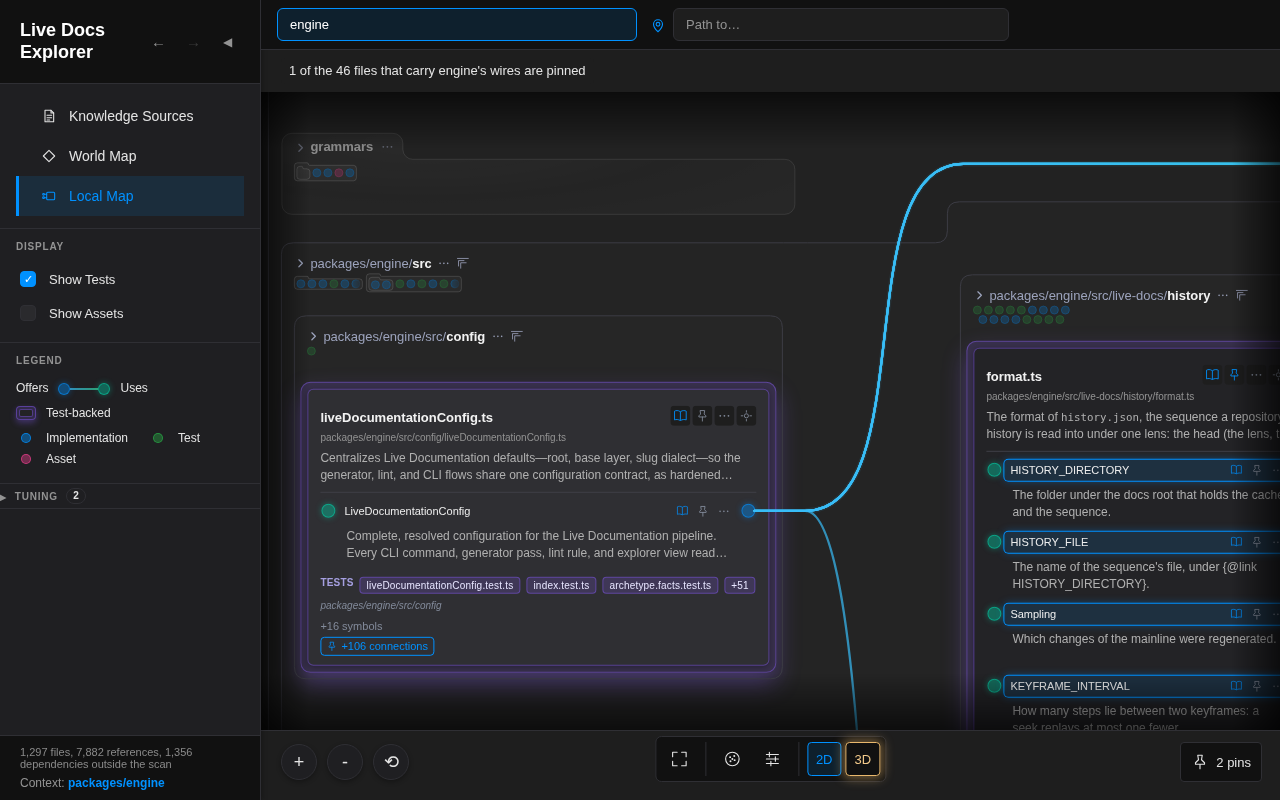
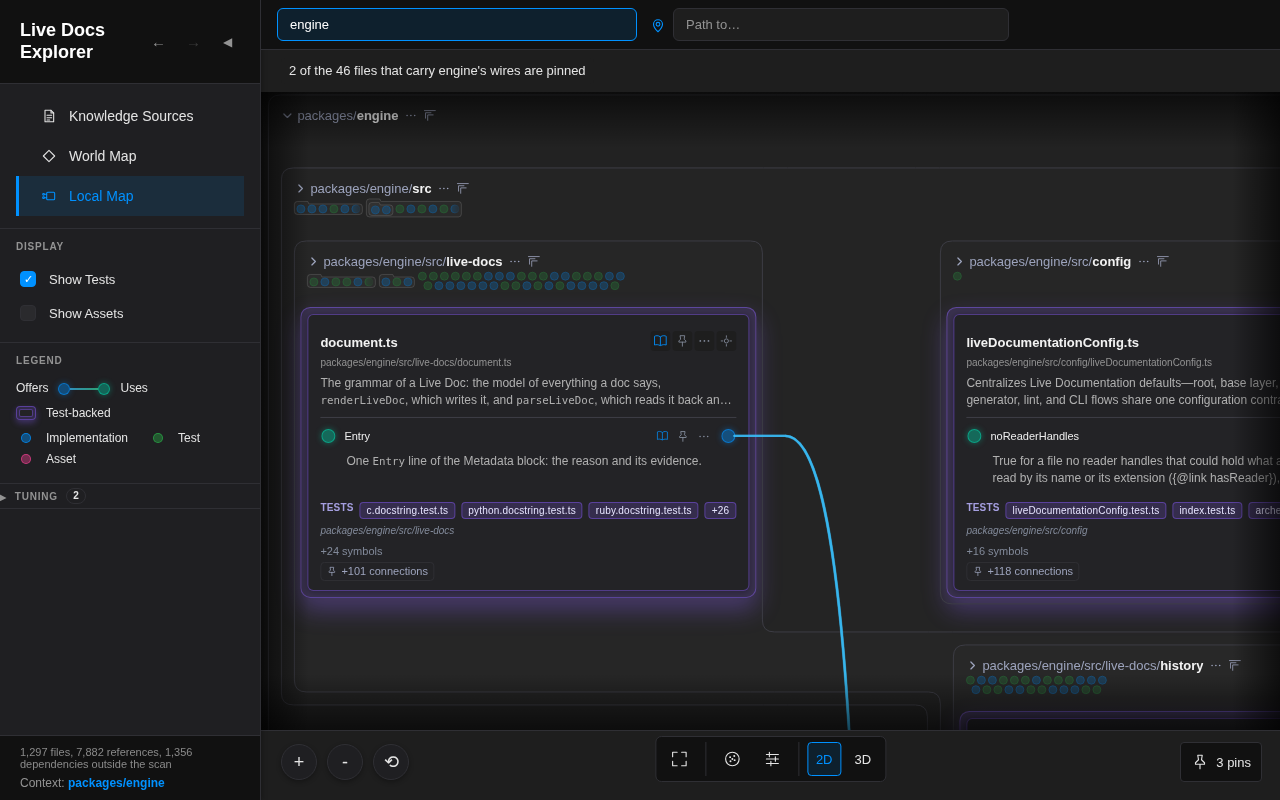
Set the Way Down lever truly in its browser cases, and picture this repository's board after two mends
The browser cases wrote the lever only where no saved tuning stood, and the suite seeds one, so their first run had the lever at its default: the five cases that try the trial failed and the two that hold the default passed. The lever is now written at every load, and the chain's cold check opens the link in a browser whose own tuning says nothing of it. All seven pass.

The pictures of this repository's engine and explorer are replaced by ones taken after two mends that touch only a thing with more files than a picture holds: a much-used first file is passed over for the next that fits, and the line that counts what is not pinned stands before the map is drawn, so that it no longer pushes the opened folder's label under itself. The evidence page says what each picture shows, and that an address opened cold shows the same pins framed as any shared link is.

diff --git a/tests/e2e/way-down.spec.ts b/tests/e2e/way-down.spec.ts
@@ -21,7 +21,9 @@ const ESTATE = "/samples/estate/index.html?view=world";
 
 async function visit(browser: Browser, wayDown: WayDown, site = ESTATE): Promise<{ page: Page; close: () => Promise<void> }> {
   const context = await browser.newContext({ viewport: { width: 1280, height: 800 }, deviceScaleFactor: 1 });
-  await context.addInitScript(({ key, value }) => { if (!localStorage.getItem(key)) localStorage.setItem(key, value); }, {
+  // Written at every load, over the suite's own seed, which says nothing of Way Down: written only where no value
+  // stood, the lever stayed at its default and every case of the trial failed (the first run of this file).
+  await context.addInitScript(({ key, value }) => localStorage.setItem(key, value), {
     key: PERSISTED_UI_KEY, value: JSON.stringify({ version: PERSISTED_UI_VERSION, tuning: { localMap: { searchStarts: 0, wayDown } } })
   });
   const page = await context.newPage();
@@ -176,12 +178,14 @@ test.describe("The way down from the World Map", () => {
       const snapshot = currentSnapshot(page);
       expect([...snapshot.openDirectories]).toEqual(["Database/SqlServer"]);
       expect(snapshot.destination).toEqual({ kind: "directory", directory: "Portal" });
-      // Cold, it draws the same path and says the same of it.
-      const cold = await page.context().newPage();
+      // Cold, in a browser whose own tuning says nothing of Way Down, the link draws the same path and says the same of
+      // it: the lever rides among the link's layout settings.
+      const elsewhere = await browser.newContext({ viewport: { width: 1280, height: 800 }, deviceScaleFactor: 1 });
+      const cold = await elsewhere.newPage();
       await cold.goto(page.url());
       await expect(cold.locator("#pathfind-status")).toHaveText(await status.textContent() ?? "");
       expect(await cold.locator("#pathfind-path .pathfind-path-hop").evaluateAll(buttons => buttons.map(button => button.getAttribute("title")!))).toEqual(hops);
-      await cold.close();
+      await elsewhere.close();
       // Back returns to the board with the thing the question started from still pinned.
       await page.goBack();
       await expect(page.locator("#view-world")).toHaveClass(/active/);

diff --git a/AI-Agent-Workspace/AgentSessionHistory/2026/11/2026-11-22/Screenshots/way-down/README.md b/AI-Agent-Workspace/AgentSessionHistory/2026/11/2026-11-22/Screenshots/way-down/README.md
@@ -13,7 +13,7 @@
 
 ## The trial
 
-**Historical evidence, 2026-11-22.** Taken by the trial's builder between 01:55 and 02:15 UTC on its branch's built site, 1,280 by 800, headless Chromium through the browser lane, each state in a fresh page with the continuing search off and Tuning → 2D Layout → **Way Down** set as named: *Folder Alone*, the default, or *Carries The Question*. The trial is described in [the Explorer design](../../../../../../../.mdmd/layer-3/live-documentation-explorer.mdmd.md#independent-exploration), "The way down from the World Map, a trial". An arrival was taken 150 ms after the press, while the views cross-fade and the camera eases, and again at rest. The builder looked at every picture; the eye that decides is the owner's.
+**Historical evidence, 2026-11-22.** Taken by the trial's builder between 01:55 and 02:26 UTC on its branch's built site (the estate's pictures by 02:13, before two last changes that touch only a thing with more files than a picture holds; this repository's after them), 1,280 by 800, headless Chromium through the browser lane, each state in a fresh page with the continuing search off and Tuning → 2D Layout → **Way Down** set as named: *Folder Alone*, the default, or *Carries The Question*. The trial is described in [the Explorer design](../../../../../../../.mdmd/layer-3/live-documentation-explorer.mdmd.md#independent-exploration), "The way down from the World Map, a trial". An arrival was taken 150 ms after the press, while the views cross-fade and the camera eases, and again at rest. The builder looked at every picture; the eye that decides is the owner's.
 
 ### A thing opens with its doors
 
@@ -25,9 +25,9 @@
 | Carries: [hub with calls and what it stands on](trial-open-hub--carries-calls-and-stands--rest.png) | The alternative not taken: every wire's files pinned, calls first, so `PaymentHub.cs` and `Hub.csproj` too. | Seven files of the shared contracts take the left half of the picture and the two files a payment passes through are a small part of it. The request is harder to find. So a thing's doors are its calls, and what it stands on is brought only for a thing no call touches. |
 | Carries: [portal, arriving](trial-open-portal--carries--arrival.png), [at rest](trial-open-portal--carries--rest.png) | Portal open with `Services/GatewayClient.cs` pinned; beneath the folder, the gateway's `PaymentsController.cs` with the two routes it serves. | The hop from portal to gateway is one glance: two lines from `POST api/paym…` and `GET api/payme…` into the client. Whole in view, names read. The folder labels are cut from their left, "…tal/Services", "…ay/Controllers", which is the Local Map's own cut and reads poorly here, where the folder's first letters are what tells the two things apart. |
 | Carries: [payments, arriving](trial-open-payments--carries--arrival.png), [at rest](trial-open-payments--carries--rest.png) | PaymentService open with its three door files pinned: `App.config`, which serves the hub, and `Data/Payment.cs` and `Data/PaymentsContext.cs`, which call the two database objects. | This is where the estate's picture breaks. The thing itself is whole, but its neighbours are cut at three edges: the hub's `App.config` under the bar at the top, `dbo.Payment.sql` and the contracts at the left edge, the foot of the folder at the bottom. Three open cards with their rows are taller than the frame holds at the scale where names read, so the camera took the thing alone, as Step's With Its Lines does. The edges' shadows say more lies there; the request's next hop is half a name at the left edge. |
-| Carries, on this repository: [engine](trial-repo-open-engine--carries--rest.png), [after Fit](trial-repo-open-engine--carries--fit.png); [explorer](trial-repo-open-explorer--carries--rest.png) | A thing with many door files. Forty-six files of `packages/engine` are stood on by other things; eighty-four of `packages/explorer` carry its wires. The line above the map says how many are pinned. | Where the idea breaks. No call touches these things, so their doors are what others stand on, and those are the much-used files. The line above the map is plain and read at once: "1 of the 46 files that carry engine's wires are pinned". But a thing this size cannot be framed with its lines. Engine arrives at reading size among `grammars`, `src/config` and the pinned `history/format.ts`, which is cut at the right and the bottom, and its own label, "packages/engine", is not in view at all; after Fit it is forty-three cards too small to read. Explorer arrives at its label, with the pinned card cut at the bottom edge. Both pictures predate two mends; see below. |
+| Carries, on this repository: [engine](trial-repo-open-engine--carries--rest.png), [after Fit](trial-repo-open-engine--carries--fit.png); [explorer](trial-repo-open-explorer--carries--rest.png) | A thing with many door files. Forty-six files of `packages/engine` are stood on by other things; eighty-four of `packages/explorer` carry its wires. The line above the map says how many are pinned. | Where the idea breaks. No call touches these things, so their doors are what others stand on, and those are the much-used files. The line above the map is plain and read at once: "2 of the 46 files that carry engine's wires are pinned". But a thing this size cannot be framed with its lines at a scale where names read. Engine arrives at its own label, "packages/engine", at reading size: `src`, `src/live-docs` and `document.ts` are whole, `liveDocumentationConfig.ts` is cut at the right edge and `live-docs/history` at the bottom. After Fit it is twenty-six cards, their names small and read with effort. Explorer arrives at its label too, with the pinned card cut at the bottom edge. An arrival here says where the person is and how much was left out, and does not show the question whole. |
 
-**What a picture holds, and what these two pictures do not yet show.** A way down pins files while the cards they bring, themselves and the files a line joins to them, stay within two dozen, one file for each wire before a second for any. Counted in files, six, `engine` opened as 162 cards and `explorer` as 200. The two pictures above were taken while the first file was pinned whatever it brought: `engine` then opened as one file of forty-six with 43 cards, since its first file alone overran the budget and left room for no other. Two things were mended after them and are not pictured: the rule now passes over such a file for the next that fits and pins it alone only where nothing fits (unit-tested); and the counting line now stands before the map is drawn, since, drawn after the camera was placed, it pushed the map down and engine's label under itself. Pictures of both are owed.
+**What a picture holds.** A way down pins files while the cards they bring, themselves and the files a line joins to them, stay within two dozen, one file for each wire before a second for any. Three rules were tried on `engine` and looked at, one after another. Counted in files, six: 162 cards, and `explorer` 200. Counted in cards with the first file pinned whatever it brought: one file of forty-six and 43 cards, since its first file alone overran the budget and left room for no other. Passing over such a file for the next that fits, pinned alone only where nothing fits: two files and 26 cards, the pictures above. On the second of those the counting line, drawn after the camera was placed, pushed the map down and engine's label under itself; it now stands before the map is drawn.
 
 ### A wire opens as its files
 
